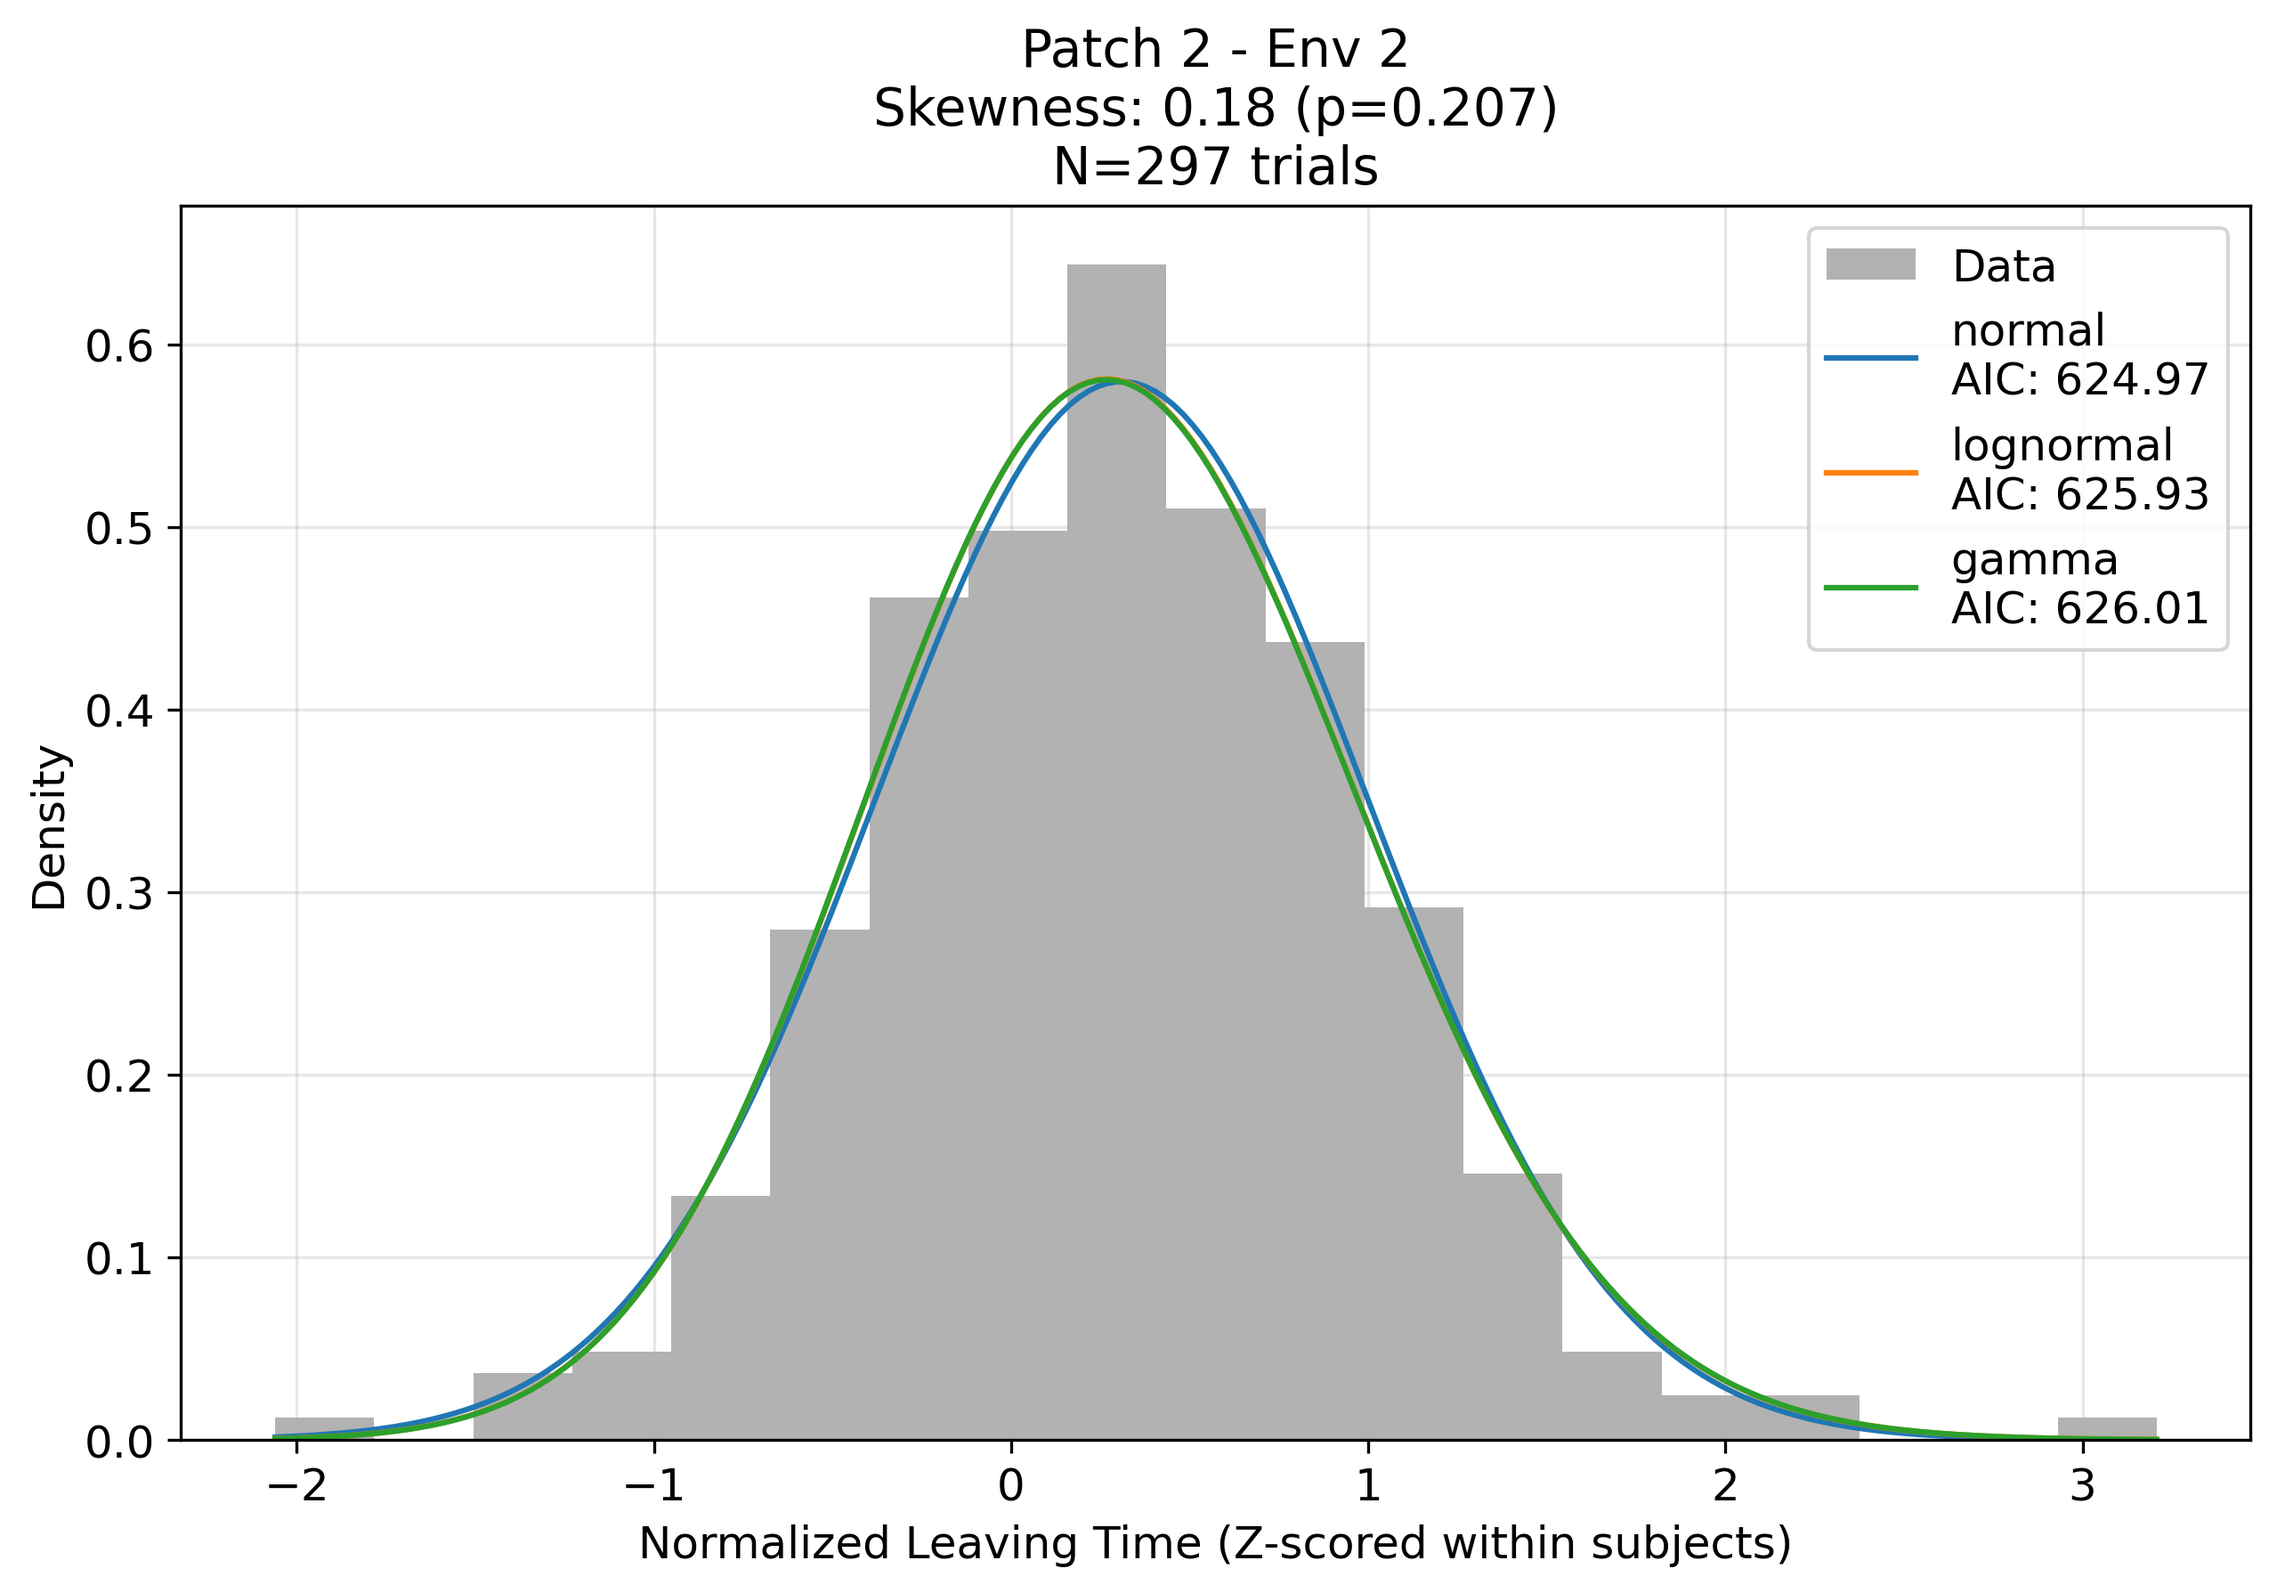
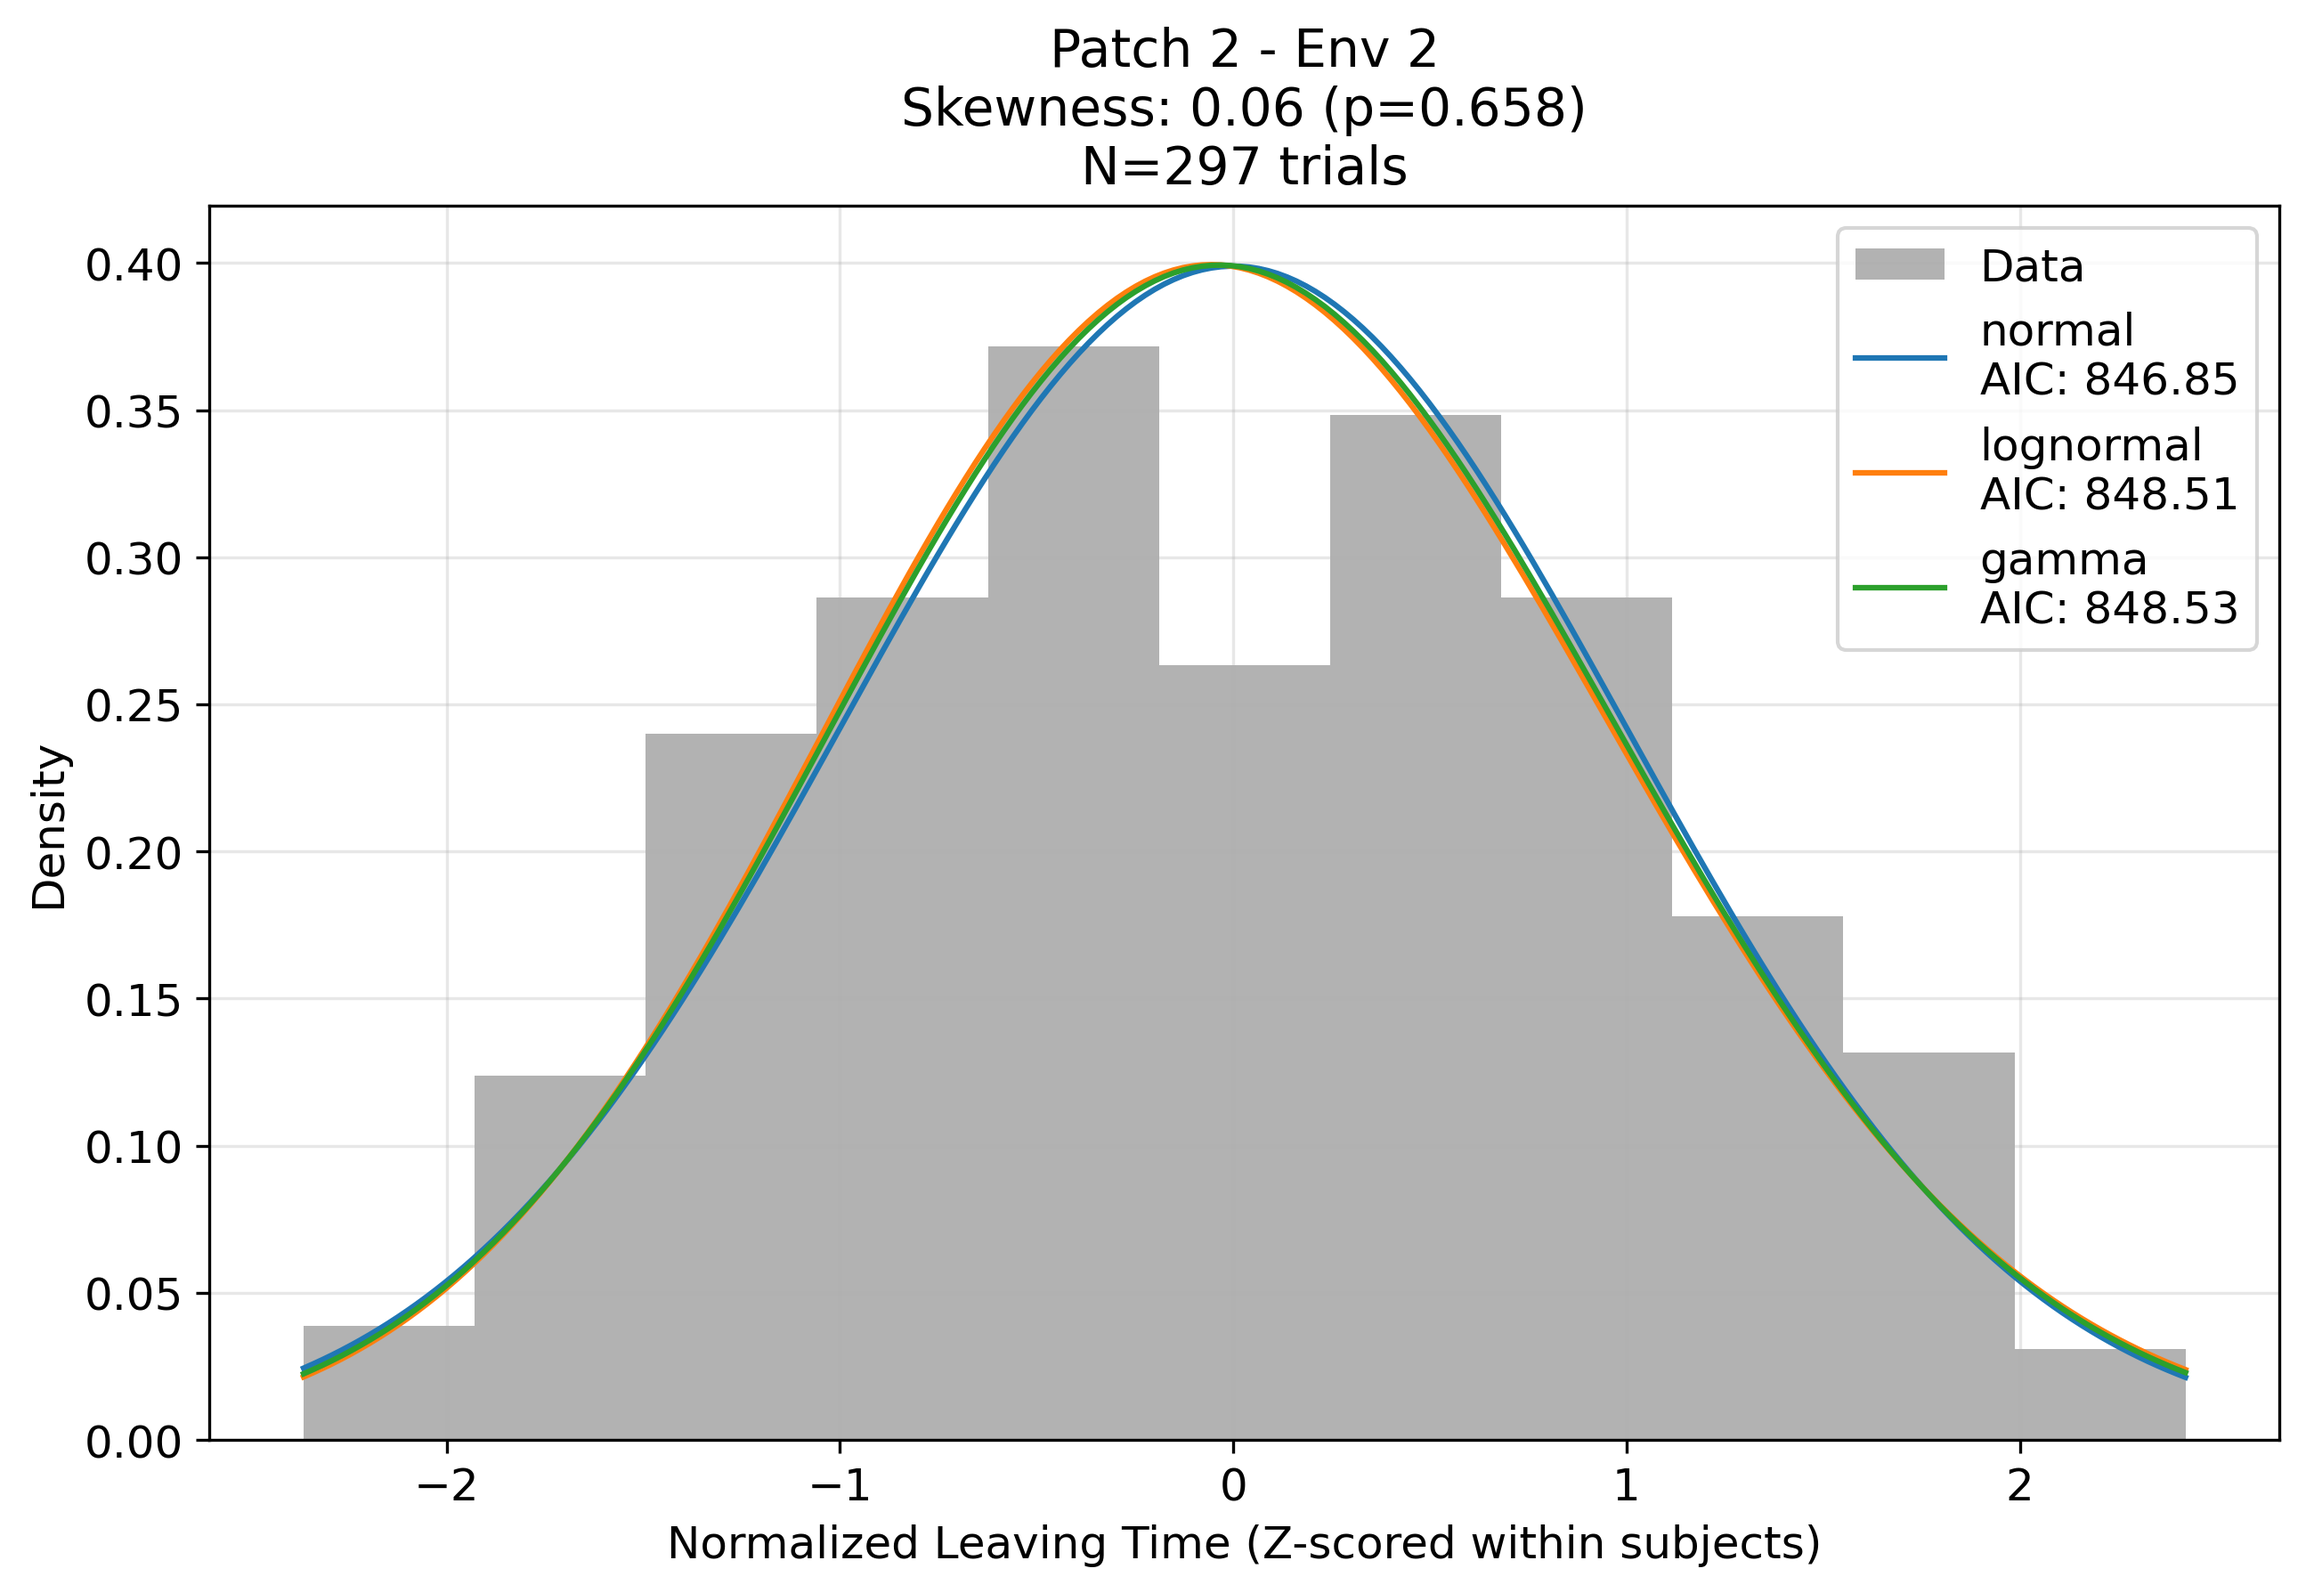
after scaling

diff --git a/src/population_distribution_analysis.py b/src/population_distribution_analysis.py
@@ -63,7 +63,7 @@ def assess_sample_size(data: np.ndarray, alpha: float = 0.05) -> Dict:
 def fit_population_distributions(df: pd.DataFrame) -> pd.DataFrame:
     """
     Fit distributions to population-level data for each patch x environment combination.
-    First normalizes within subjects, then combines normalized data.
+    First normalizes within subjects using scipy.stats.zscore, then combines normalized data.
     
     Args:
         df: DataFrame containing trial data
@@ -76,12 +76,15 @@ def fit_population_distributions(df: pd.DataFrame) -> pd.DataFrame:
         ('normal', stats.norm),
         ('lognormal', stats.lognorm),
         ('gamma', stats.gamma),
-        ('exponential', stats.expon),
-        ('weibull', stats.weibull_min)
+        # ('exponential', stats.expon),
+        # ('weibull', stats.weibull_min)
     ]
     
     # Create output directory
     os.makedirs('figures/population_fits', exist_ok=True)
+    
+    # Create DataFrame to store all normalized times for violin plot
+    normalized_data = []
     
     # Analyze each patch x environment combination
     for patch in sorted(df['patch'].unique()):
@@ -90,12 +93,10 @@ def fit_population_distributions(df: pd.DataFrame) -> pd.DataFrame:
             normalized_times_all = []
             
             for subject in df['sub'].unique():
-                # Get subject's overall stats for normalization
+                # Get subject's overall leaving times
                 subject_times = df[df['sub'] == subject]['leaveT'].values
                 if len(subject_times) < 5:  # Skip subjects with too few trials
                     continue
-                subject_mean = np.mean(subject_times)
-                subject_std = np.std(subject_times)
                 
                 # Get this subject's leaving times for this patch x env combination
                 leave_times = df[
@@ -105,9 +106,16 @@ def fit_population_distributions(df: pd.DataFrame) -> pd.DataFrame:
                 ]['leaveT'].values
                 
                 if len(leave_times) > 0:
-                    # Normalize within subject
-                    subject_normalized = (leave_times - subject_mean) / subject_std
+                    # Normalize within subject using scipy's zscore
+                    subject_normalized = stats.zscore(leave_times)
                     normalized_times_all.extend(subject_normalized)
+                    
+                    # Store normalized data for violin plot
+                    normalized_data.extend([
+                        {'patch': f'Patch {patch}',
+                         'env': f'Env {env}',
+                         'normalized_time': t} for t in subject_normalized
+                    ])
             
             normalized_times_all = np.array(normalized_times_all)
             
@@ -190,6 +198,24 @@ def fit_population_distributions(df: pd.DataFrame) -> pd.DataFrame:
                     'ks_stat': res['ks_stat'],
                     'ks_p': res['ks_p']
                 })
+    
+    # Create violin plot of normalized distributions
+    plt.figure(figsize=(12, 6))
+    df_normalized = pd.DataFrame(normalized_data)
+    
+    sns.violinplot(x='patch', y='normalized_time', data=df_normalized, 
+                  hue='env', inner='box', palette='Set3',
+                  inner_kws=dict(box_width=10, whis_width=1.5, color=".45"))
+    
+    plt.title('Distribution of Z-scored Leaving Times by Patch and Environment')
+    plt.xlabel('Patch Type')
+    plt.ylabel('Z-scored Leave Time')
+    plt.grid(True, alpha=0.3)
+    
+    plt.tight_layout()
+    plt.savefig('figures/population_fits/normalized_distributions.png', 
+                bbox_inches='tight', dpi=300)
+    plt.close()
     
     return pd.DataFrame(results)
 
